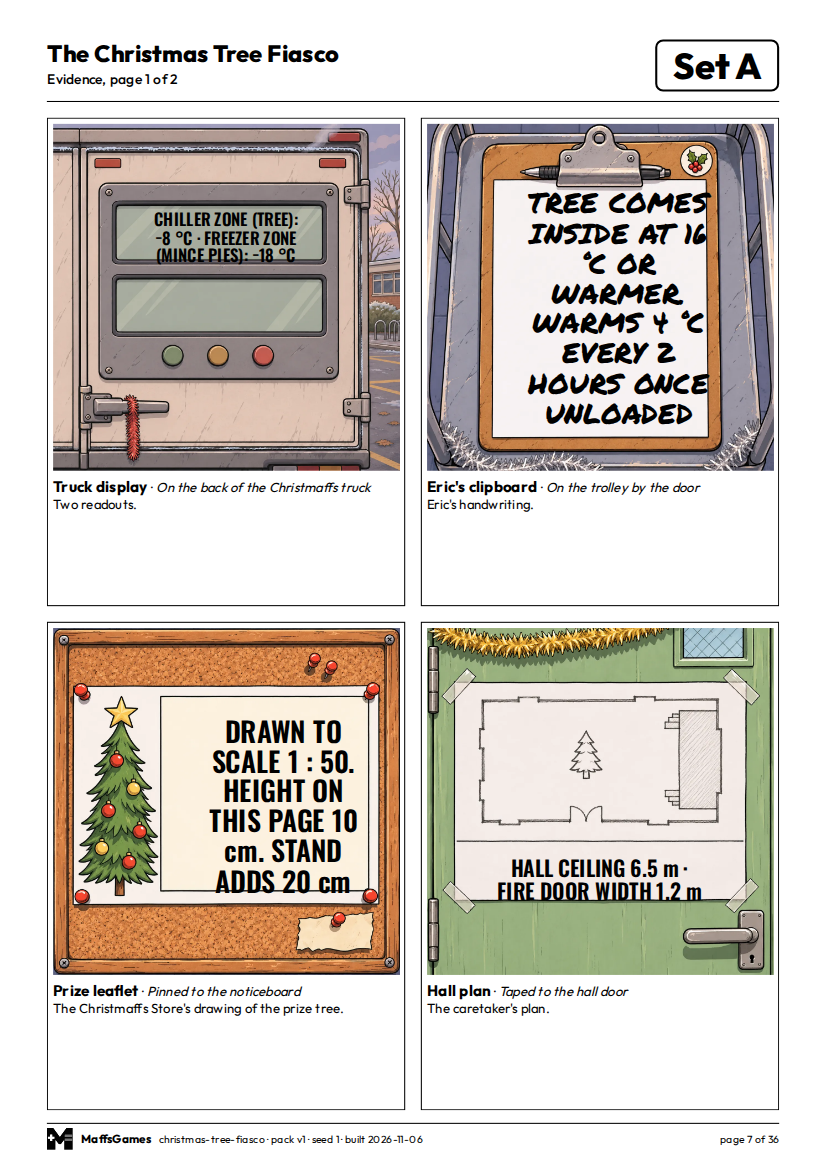
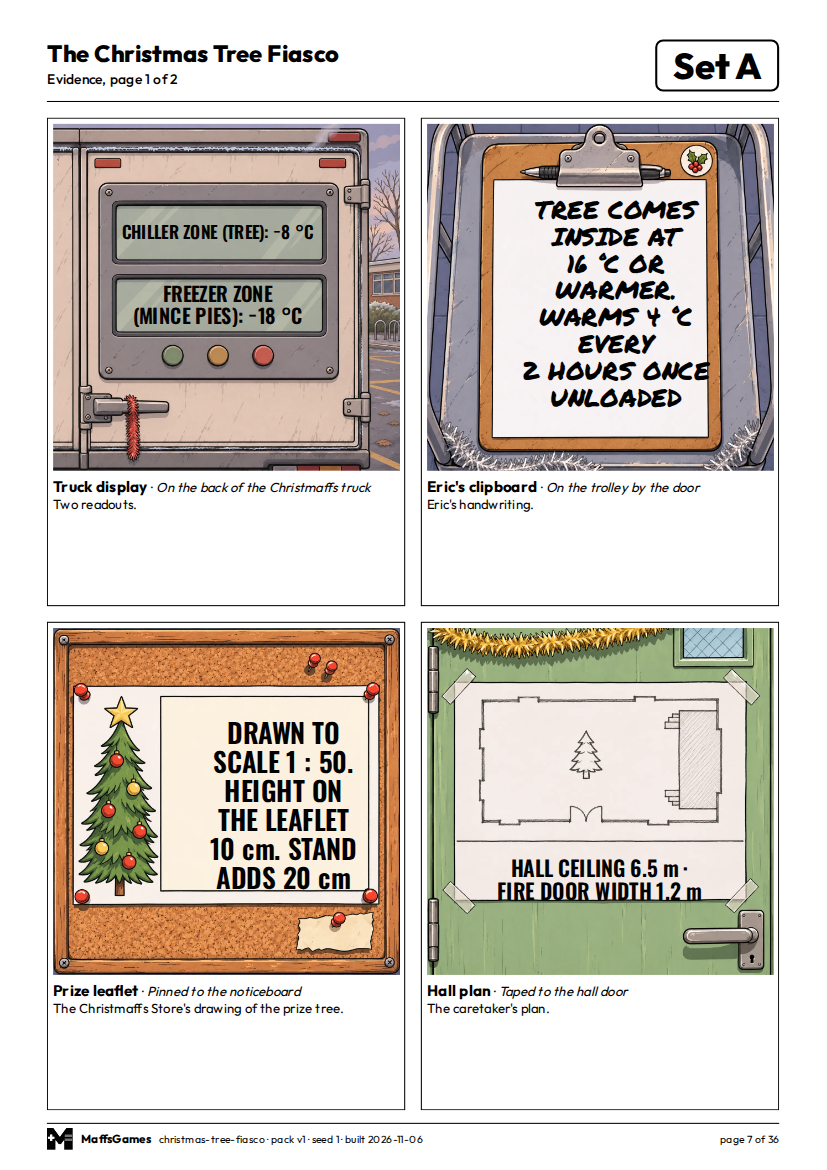
Fix Christmas pack label placement and leaflet clue

Changed region(s): [[0.6348, 0.1538, 0.8767, 0.3692], [0.2418, 0.6154, 0.4534, 0.7692], [0.1511, 0.1846, 0.393, 0.2769]]

diff --git a/updates/index.html b/updates/index.html
@@ -120,7 +120,6 @@
 
 <h3>New</h3>
 <ul>
-  <li><strong>6 Nov 2026:</strong> In <a href="/escape-rooms/christmas-tree-fiasco/">The Christmas Tree Fiasco</a>, the words printed on each clue object now appear in bold when you search it.</li>
   <li><strong>6 Nov 2026:</strong> <strong><a href="/escape-rooms/">Escape rooms make you sort the clues from the red herrings.</a></strong> Objects appear in a different order each time you play. Everything you search goes into your notebook, so you decide which notes help with the locks.</li>
   <li><strong>6 Nov 2026:</strong> <strong><a href="/games/equatle/">Equatle</a> fits on one phone screen.</strong> The whole board and every key, Enter included, are now on screen together, so a puzzle can be played start to finish without scrolling. Enter sits next to Del, and on shorter screens the heading is smaller; the rules are still under the ? button.</li>
   <li><strong>5 Nov 2026:</strong> <strong><a href="/games/equatle/">Equatle</a> fits a small phone.</strong> On the narrowest phones the number keys ran off both sides of the screen, so the 1 couldn't be tapped at all, and the home button fell off the top bar. Every key and button now fits on screen; on those phones the Daily/Free Play label at the top is hidden to make room.</li>

diff --git a/escape-rooms/christmas-tree-fiasco/room.js b/escape-rooms/christmas-tree-fiasco/room.js
@@ -45,7 +45,7 @@ window.ROOM = {
     { id: 'eric-clipboard', name: 'Eric\'s clipboard', where: 'On the trolley by the door',
       clue: 'Eric&apos;s handwriting. <b>TREE COMES INSIDE AT {{ct.min}} °C OR WARMER. WARMS {{ct.g}} °C EVERY {{ct.h}} HOURS ONCE UNLOADED</b>' },
     { id: 'prize-leaflet', name: 'Prize leaflet', where: 'Pinned to the noticeboard',
-      clue: 'The Christmaffs Store&apos;s drawing of the prize tree. <b>DRAWN TO SCALE 1 : {{sc.k}}. HEIGHT ON THIS PAGE {{sc.d}} cm. STAND ADDS {{sc.s}} cm</b>' },
+      clue: 'The Christmaffs Store&apos;s drawing of the prize tree. <b>DRAWN TO SCALE 1 : {{sc.k}}. HEIGHT ON THE LEAFLET {{sc.d}} cm. STAND ADDS {{sc.s}} cm</b>' },
     { id: 'hall-plan', name: 'Hall plan', where: 'Taped to the hall door',
       clue: 'The caretaker&apos;s plan. <b>HALL CEILING {{sc.c}} m · FIRE DOOR WIDTH 1.2 m</b>' },
     { id: 'packing-slip', name: 'Packing slip', where: 'Stuck to the prize box',

diff --git a/tools/pack-generator/build_pack.py b/tools/pack-generator/build_pack.py
@@ -147,9 +147,12 @@ def load_config(slug):
             raise BuildError("config image missing: %s" % f.relative_to(ROOT))
         if im.get("font", "label") not in FONTS:
             raise BuildError("%s: font %r is not one of %s" % (im["file"], im.get("font"), sorted(FONTS)))
-        x0, y0, x1, y1 = im["label_box"]
-        if not (0 <= x0 < x1 and 0 <= y0 < y1):
-            raise BuildError("%s: label_box %r is not a box" % (im["file"], im["label_box"]))
+        boxes = im.get("label_boxes", [im.get("label_box")])
+        if not boxes or ("label_boxes" in im and "label_box" in im):
+            raise BuildError("%s: use one label_box or a nonempty label_boxes list" % im["file"])
+        for box in boxes:
+            if not isinstance(box, list) or len(box) != 4 or not (0 <= box[0] < box[2] and 0 <= box[1] < box[3]):
+                raise BuildError("%s: %r is not a label box" % (im["file"], box))
     return cfg
 
 
@@ -322,7 +325,17 @@ def instrument_hints(texts):
 def answer_caption(lock):
     """An answer box's words: the instrument's label and its unit, if it has one; nothing else (Amendment 4)."""
     ins = lock.get("instrument") or {}
-    return " ".join(x for x in (text_of(ins.get("label", "")).strip(), text_of(ins.get("unit", "")).strip()) if x)
+    label, unit = (text_of(ins.get(k, "")).strip() for k in ("label", "unit"))
+    if unit and re.search(r"(?<!\w)%s(?!\w)" % re.escape(unit), label, re.I):
+        unit = ""
+    caption = " ".join(x for x in (label, unit) if x)
+    if caption_unit_problems(caption, text_of(ins.get("unit", "")).strip()):
+        raise BuildError("answer caption repeats its unit: %r" % caption)
+    return caption
+
+
+def caption_unit_problems(caption, unit):
+    return unit and len(re.findall(r"(?<!\w)%s(?!\w)" % re.escape(unit), caption, re.I)) > 1
 
 
 def check_sets(checker, room_js, locks, sets):
@@ -379,6 +392,31 @@ def split_clue(clue):
     if len(parts) != 1:
         raise BuildError("a clue needs exactly one <b>...</b> part (the words on the object): %r" % clue[:80])
     return parts[0].strip(), re.sub(r"\s*<b>.*?</b>\s*", " ", clue, flags=re.S).strip()
+
+
+def label_parts(text, boxes):
+    """Split a clue over multiple measured glass areas, then bind figures before browser fitting."""
+    parts = text.split(" · ") if isinstance(boxes[0], list) else [text]
+    count = len(boxes) if isinstance(boxes[0], list) else 1
+    if len(parts) != count:
+        raise BuildError("label has %d printed parts for %d boxes: %r" % (len(parts), count, text))
+    out = []
+    for part in parts:
+        part = re.sub(r"(?<!\w)-(?=\d)", "\u2212", part)
+        part = re.sub(r"(\d)\s+:\s+([\u2212-]?\d)", lambda m: m[1] + "\u00a0:\u00a0" + m[2], part)
+        part = re.sub(r"(\d)\s+(?=(?:°C|cm|mm|km|m|%|kg|g|hours?|mins?|minutes?)(?!\w))",
+                      lambda m: m[1] + "\u00a0", part, flags=re.I)
+        if label_text_problems(part):
+            raise BuildError("label figure has a broken binding or hyphen-minus: %r" % part)
+        out.append(part)
+    return out
+
+
+def label_text_problems(text):
+    """Figure spacing and TRUE-MINUS checks on the words that enter a fitted label."""
+    return [m.group() for pattern in (r"(?<!\w)-\d", r"\d[ \t\n]+:[ \t\n]+[\u2212-]?\d",
+                                     r"\d[ \t\n]+(?:°C|cm|mm|km|m|%|kg|g|hours?|mins?|minutes?)(?!\w)")
+            for m in re.finditer(pattern, text, re.I)]
 
 
 # ---- the pages -----------------------------------------------------------------------------------------------------
@@ -562,12 +600,13 @@ def esc(s):
 
 def art_block(img_path, box, cls, text=None, ident="", set_letter="", max_pt=MAX_PT):
     """An image with its label box laid over it (positions are set in the page from the image's natural size)."""
-    inner = ""
     if cls == "write":
         inner = '<div class="write" data-box="%s"></div>' % esc(json.dumps(box))
     else:
-        inner = ('<div class="lbl %s" data-box="%s" data-id="%s" data-set="%s" data-max="%s"><div>%s</div></div>'
-                 % (cls, esc(json.dumps(box)), esc(ident), esc(set_letter), max_pt, text or ""))
+        boxes = box if isinstance(box[0], list) else [box]
+        inner = "".join('<div class="lbl %s" data-box="%s" data-id="%s" data-set="%s" data-max="%s"><div>%s</div></div>'
+                        % (cls, esc(json.dumps(b)), esc(ident), esc(set_letter), max_pt, part)
+                        for b, part in zip(boxes, label_parts(text or "", box)))
     return '<div class="art"><img src="%s" alt="">%s</div>' % (img_path.as_uri(), inner)
 
 
@@ -952,7 +991,7 @@ def build_html(slug, room, teach, locks, sets, cfg, seed, built, url):
                 printed, cls, extra = esc(im.get("text", "")), "card herring", f(o.get("flavour"))
             cards.append("<div class='%s' data-id='%s' data-set='%s'>%s<div class='cap'><span class='name'>%s</span>"
                          " &middot; <span class='where'>%s</span><br>%s</div></div>"
-                         % (cls, o["id"], L, art_block(rdir / im["file"], im["label_box"], font, printed, o["id"], L,
+                         % (cls, o["id"], L, art_block(rdir / im["file"], im.get("label_boxes", im.get("label_box")), font, printed, o["id"], L,
                                                        im.get("max_pt", MAX_PT)),
                             o["name"], o.get("where", ""), extra))
         per = 4
@@ -1217,6 +1256,34 @@ def selftest():
             return [str(e)] if "pack page range is not contiguous" in str(e) else []
         return []
 
+    def plant_label_box_count():
+        try:
+            label_parts("FIRST · SECOND", [[0, 0, 1, 1]])
+        except BuildError as e:
+            return [str(e)] if "printed parts for" in str(e) else []
+        return []
+
+    def plant_broken_unit():
+        good = label_parts("AT 16 °C", [0, 0, 1, 1])[0]
+        bad = pc.apply_plant(good, "16\u00a0°C", "16 °C", name="a split number and unit")
+        return label_text_problems(bad)
+
+    def plant_broken_ratio():
+        good = label_parts("= 5 : 1", [0, 0, 1, 1])[0]
+        bad = pc.apply_plant(good, "5\u00a0:\u00a01", "5 : 1", name="a split ratio")
+        return label_text_problems(bad)
+
+    def plant_hyphen_minus():
+        good = label_parts("CHILLER \u22128 °C", [0, 0, 1, 1])[0]
+        bad = pc.apply_plant(good, "\u22128", "-8", name="a hyphen-minus on a label")
+        return label_text_problems(bad)
+
+    def plant_repeated_caption_unit():
+        lock = {"instrument": {"label": "CHRISTMAS UNICORNS", "unit": "unicorns"}}
+        good = answer_caption(lock)
+        bad = pc.apply_plant(good, good, good + " unicorns", name="a repeated caption unit")
+        return [bad] if caption_unit_problems(bad, "unicorns") else []
+
     def audit_planted_pack(bad_locks):
         with sync_playwright() as p:
             browser = p.chromium.launch()
@@ -1360,6 +1427,11 @@ def selftest():
               ("a printed URL with no room page", plant_bad_url),
               ("a missing score-sheet row", plant_missing_row),
               ("a per-set hint page counted inside a set's range", plant_hint_inside_set_range),
+              ("a clue with a different number of parts and label boxes", plant_label_box_count),
+              ("a number separated from its unit", plant_broken_unit),
+              ("a ratio broken around its colon", plant_broken_ratio),
+              ("a hyphen-minus on printed art", plant_hyphen_minus),
+              ("an answer caption repeating its unit", plant_repeated_caption_unit),
               ("an unfilled missTitle token", plant_unfilled_miss_title),
               ("a locks page whose briefs leave too little working space", plant_lock_brief_overflow),
               ("a final target two expressions reach", plant_two_expressions),

diff --git a/docs/handover/contracts/2026-11-06-christmas-pack.md b/docs/handover/contracts/2026-11-06-christmas-pack.md
@@ -83,3 +83,32 @@ a. Answer key misconception list (build_pack.py ~line 889): fill missTitle and m
 b. Locks page: the working-space boxes take the height that is left after the briefs (flex), with a minimum height per box; state the minimum in the PR body. If a set cannot meet the minimum, the existing overflow check fails the build. Report each set's box height and Kiln's before/after.
 
 STOP IF: a locks page cannot meet the minimum without cutting brief text (report the overflow per set); filling the key needs a token the variants do not carry; any fix would need wording, room.js or a threshold change.
+
+AMENDMENT 5 (review fixes; verbatim below):
+
+CHRISTMAS-PACK, review fixes for PR #689 (Project Claude, 6 Nov 19:20; supersedes the 19:15 block). The previous session finished: PR #689 is open on codex/christmas-pack and the worktree is clean. Ignore the earlier recovery handover; there is nothing to recover. Continue on this branch, same PR.
+
+LANE: home (Codex) · TIER: Shared · branch codex/christmas-pack, PR #689 · same COORDINATION and STANDING AUTHORITY as the consolidated CHRISTMAS-PACK contract (docs/handover/contracts/2026-11-06-christmas-pack.md on this branch)
+
+TASK: Fix the printed labels in the Christmas pack so every figure reads cleanly and sits inside its blank area, and change the leaflet clue so it cannot be read as "measure the picture".
+
+ROOT CAUSE: Project Claude's proof review found: (1) the truck's two readouts share the top screen, leaving the bottom one blank, and the text runs into the border; (2) the label wrapper breaks a number from its unit ("AT 16 / °C OR") and inside a ratio ("= 5 : / 1"); (3) the laptop's label box is wider than its screen, so text runs onto the bezel; (4) the slider's answer box sits below its white plate on the cover; (5) answer captions repeat the unit when the label already holds it ("...COME IN hours", "CHRISTMAS UNICORNS unicorns"); (6) an /updates/ line the contract did not ask for; (7) the leaflet's "HEIGHT ON THIS PAGE 10 cm": on paper the drawn tree is about 4 cm, so "this page" invites a student to measure the printed picture and get it wrong (Jon, 6 Nov: change it).
+
+CLASS CHECK: (2) and (5) are generic build_pack.py faults (every room's labels and captions), so they are fixed there, room-agnostic, with selftest plants. (1), (3) and (4) are this room's config (label boxes measured wrong); (1) uses the already-authorised optional label_boxes. (6) and (7) are local.
+
+EXACT CHANGE:
+1. Truck (xmas-01): label_boxes with two boxes, the top and bottom screens' glass, inset; the clue's printed text split at " · " into "CHILLER ZONE (TREE): {{ct.start}} °C" and "FREEZER ZONE (MINCE PIES): −18 °C". Generic label_boxes support with its selftest plant (part count must equal box count), Kiln unchanged.
+2. Line breaking (build_pack.py, all rooms): a number never separates from what follows it as a unit or symbol (°C, cm, m, %, and similar), and "a : b" never breaks around its colon. Implement by binding those pairs with non-breaking spaces before fitting. Plants: a label whose fit splits "16 °C"; one that splits "5 : 1". Kiln's labels compared before/after; report any change.
+3. Minus signs: confirm every negative figure printed on the art uses U+2212 (TRUE-MINUS, #671), the truck's −8 and −18 included. If any is a hyphen, fix it in the generic printing path, with a plant.
+4. Laptop (xmas-08): re-measure the label box inside the screen's glass only, inset; the text must fit at 11 pt or more.
+5. Slider (xmas-11): re-measure the label box inside the white plate; check the dial's and keypad's boxes the same way on the cover.
+6. Answer captions (build_pack.py, all rooms): don't append the instrument's unit when the label already contains it (case-insensitive, whole word: "hours", "unicorns", "(cm)"). Plant: a label containing its unit, which must not be printed twice.
+7. Remove the updates/index.html line from this PR.
+8. escape-rooms/christmas-tree-fiasco/room.js, prize-leaflet clue, ONE wording change (Jon, 6 Nov): "HEIGHT ON THIS PAGE {{sc.d}} cm" -> "HEIGHT ON THE LEAFLET {{sc.d}} cm". Nothing else in room.js changes. Then re-run check-escape-rooms.py (VALID stays 98 of 900) and the escape play-through; the online clue and the teacher page's clue table show the new wording.
+9. Re-export the proof PNGs (page 1, answer key, set A cover, both evidence pages, locks page) and add a set D evidence page 1 (other figures, other line lengths). Report each label's fitted point size.
+
+DO NOT TOUCH: room.js beyond the six <b> pairs and item 8; the maths, variants, sets and seed; page 1's wording; image content; the files under COORDINATION.
+
+SUCCESS CONDITION: Each readout sits in its own truck screen; no figure is separated from its unit and no ratio breaks; every label sits inside its blank area at 11 pt or more; negative figures print with U+2212; no repeated units; the leaflet reads "HEIGHT ON THE LEAFLET" online and on paper; the /updates/ line gone; selftest passes with every new plant caught; Kiln still builds (changes reported with before/after images); new proof PNGs committed; Gate green. Stop for Project Claude's review and Jon's "merge".
+
+STOP IF: a label cannot fit inside its blank area at 11 pt once the bindings are in (report the image and text); any Kiln label changes in a way that isn't the two binding rules or the unit rule; the minus fix needs a change outside the generic printing path; the wording change alters any check result other than the clue text itself.

diff --git a/docs/handover/home.md b/docs/handover/home.md
@@ -2,7 +2,7 @@
 
 **Queue (cross-lane facts; never archived)**
 
-- CHRISTMAS-PACK (Shared, Codex): in progress on `codex/christmas-pack`, `/home/maffs/mg-christmas-pack`; contract and Amendments 1-4: `docs/handover/contracts/2026-11-06-christmas-pack.md`. Room art/config, independent recompute and generic pack fixes are isolated there. Cloud's WHOSE-SIDE-FIT/BIOS and Claude Code's PHONE-FIT-ASIDE files are untouched. Review holds at green Gate for Project Claude's proof PNG review and Jon's "merge".
+- CHRISTMAS-PACK (Shared, Codex): PR #689 review fixes in progress on `codex/christmas-pack`, `/home/maffs/mg-christmas-pack`; contract and review amendment: `docs/handover/contracts/2026-11-06-christmas-pack.md`. Cloud's WHOSE-SIDE game/verifier and Claude Code's ROOM-SEARCH-TITLES files (`data/games.json`, meta scripts, room page heads, engine.js) are untouched. Review holds at green Gate for Project Claude and Jon's "merge".
 
 - WHOSE-SIDE: DONE and live, unlisted. #674 merged as 257e883; fixes #676 merged as f1acc1f (it contains #675, closed unmerged); main green. Merged on Jon's word before review; Project Claude reviewed #674 and #676 on 6 Nov and passed them (side roles in both θ positions, FN, Stage 4's key, all 12 triples, uniform scaling). Worktrees and claude/whose-side-fixes deleted on Jon's call, 6 Nov. Art done (#684). timer-policy.md's line waits for WHOSE-SIDE-FIT to merge; the cloud lane owns the game until stage 5, which follows WHOSE-SIDE-BIOS. Contracts: docs/history/contracts/2026-11-05-whose-side*.md.
 
@@ -23,6 +23,8 @@
 Agent Codex. Worktree `/home/maffs/mg-christmas-pack`, branch `codex/christmas-pack`, from origin/main 3d67615e after ROOM-ORDER-HERRINGS merged. Implementation commit ffe063ab; first handover commit 86e6a79b; this entry is on the branch tip. PR #689 is open; next: Gate, then Project Claude review and Jon's "merge" hold. Coordination respected: cloud's WHOSE-SIDE game/verifier and Claude Code's PHONE-FIT-ASIDE files not touched.
 
 The six clue markup pairs are the only room.js changes. The room check stayed at 98 VALID of 900 with the same TRUE-MINUS result. Four end-to-end win/loss browser plays passed at 390 and 1100 px; each clue rendered bold printed words with filled tokens. All 11 PNGs on `art/christmas-pack` scanned clean, then converted without resize to WebP under 250 KB. The pack has six fair sets; all 29 variant records independently recompute. The Christmas PDF stays ignored in `dist-packs/`; six 100 dpi Christmas proof PNGs and three Kiln before/after page pairs are committed for review. Generic fixes count only cover/evidence/locks in each set's range, fill Set A misconception figures in the key, and flex locks-page work boxes with a 25 mm minimum. Christmas boxes measure 28.8 mm in every set; Kiln's measure 35.5 mm after, 34.5 mm before. Christmas page 1 is 150 words; Kiln's is 147 after the three approved trims. Selftest: 20/20 plants caught across both rooms. Build checks pass; no warning beyond the known room's variant-0 draw being INVALID and never served. `check-changed.py`: all 51 selected checks passed (404s), seven heavy checks deferred to CI. Gate pending.
+
+Review cycle 1 (Project Claude, 6 Nov 19:20): the truck now uses two inset glass boxes, and the clipboard, laptop, dial, keypad and slider boxes are inset into their paper or plate. Generic labels bind figures to units and ratio terms with non-breaking spaces and normalize hyphen-minus before digits to U+2212; captions suppress a unit already present as a whole word in the label. The only new room.js wording is "HEIGHT ON THE LEAFLET"; the unasked /updates/ line is removed. Seven Christmas proof PNGs at 100 dpi include set D evidence 1. All Christmas labels fit: truck top 12.5 pt, bottom 14.5, clipboard 18, leaflet 19.5, hall plan 11, packing slip 20, sticky note 14.5, old box 20, laptop 20. Both Kiln builds (before and after) fit the same sizes; only MIN figure spaces became non-breaking, and the evidence page is pixel identical. Christmas and Kiln builds exit 0; Christmas remains 98 of 900 VALID, 6 sets, 108 values independently recomputed. Selftest catches 25/25 plants. check-escape-rooms.py exits 0 with 98 of 900 VALID and the same TRUE-MINUS result; a 390x844 browser play opens all three locks, wins, and finds the leaflet wording in the online search and teacher table. `check-changed.py` exits 0: 51/51 checks in 388s; seven heavy checks deferred to CI. The first registered suite was still running despite its process being invisible in the sandbox, so a duplicate suite was started and terminated; the first completed normally with its own exit-status line. Gate and second review pending; no merge authority.
 
 ## 2026-11-06 (home): WHOSE-SIDE handover
 
